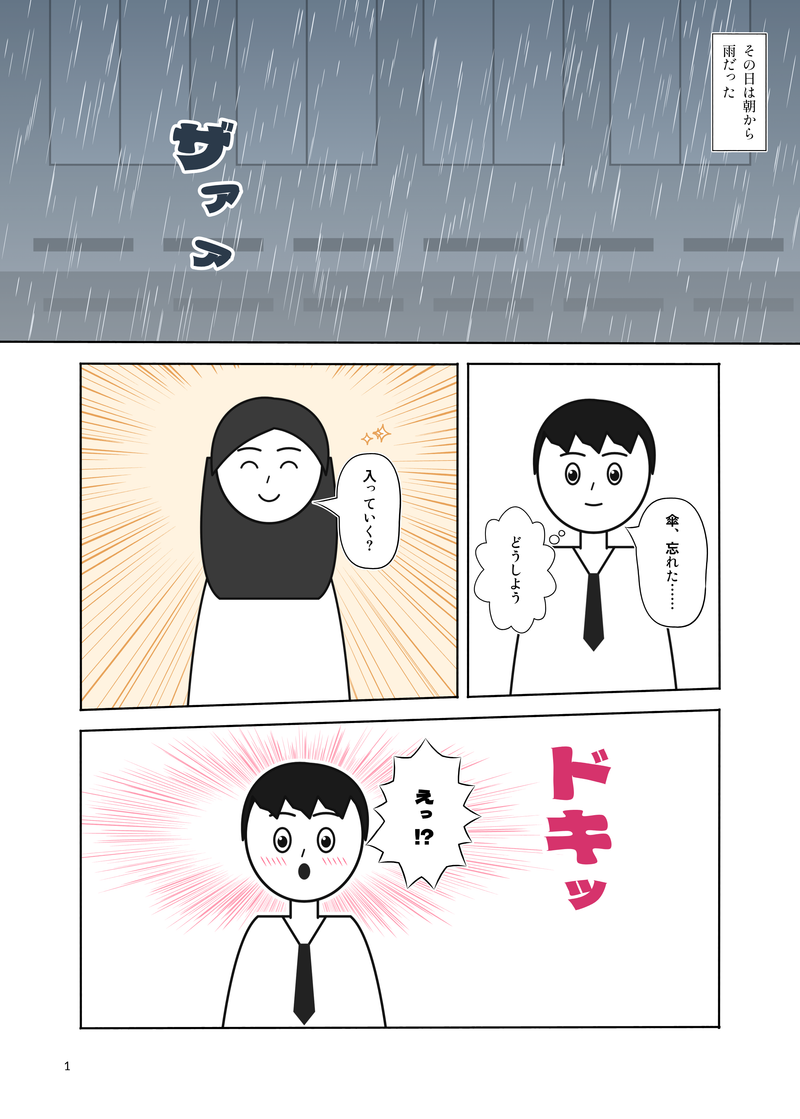
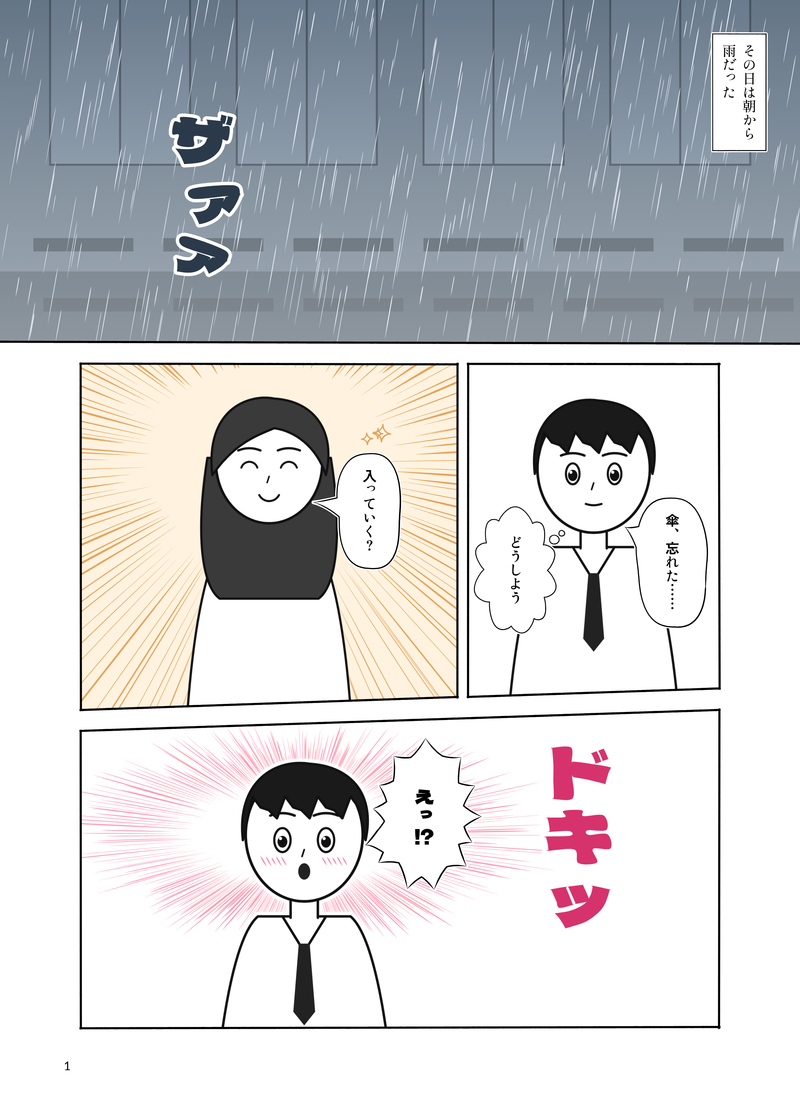
擬音の描き文字では小書きの仮名を縮めない

Changed region(s): [[0.2188, 0.0912, 0.3125, 0.2431], [0.6875, 0.79, 0.7812, 0.8508]]

diff --git a/src/text/layout.ts b/src/text/layout.ts
@@ -13,6 +13,8 @@ export interface TextStyle {
   writing: "vertical" | "horizontal";
   /** uppercase: all caps (western comic lettering) */
   textTransform?: "uppercase" | "none";
+  /** move/reduce small kana that a font sets centred and full size (off for SFX lettering) */
+  smallKanaFix?: boolean;
   lineHeight: number; // multiplier
   lineHeightAbs?: number; // mm
   letterSpacing: number; // em
@@ -528,7 +530,7 @@ function shapeSegment(seg: string[], segUnits: number[], pk: FontPick, size0: nu
     fitDashes(per, true);
     // fonts without vertical forms for small kana and 、。 get them moved toward the upper right
     // (judged from where the glyph's ink actually sits: some fonts map them to centred forms)
-    for (const b of per) {
+    for (const b of style.smallKanaFix === false ? [] : per) {
       const small = SMALL_KANA.has(b.chars);
       if ((!small && !VERT_PUNCT.has(b.chars)) || b.glyphs.length !== 1) continue;
       const g = b.glyphs[0];

diff --git a/src/elements/textel.ts b/src/elements/textel.ts
@@ -118,7 +118,7 @@ export function renderSfx(el: RElement, ctx: ElemCtx): { nodes: Node[]; bbox: Re
   const u = ctx.u;
   const style = resolveTextStyle({ ...p, wrap: "none", maxChars: undefined, punctCompress: "none", tcy: p.tcy ?? "none" }, u, ctx.lang, false, el.seed);
   const text = textValue(p.text, ctx.lang, ctx.defaultLang).replace(/\n/g, "");
-  const tl = layoutText(text, { ...style, lettering: null }, ctx.fonts);
+  const tl = layoutText(text, { ...style, lettering: null, smallKanaFix: false }, ctx.fonts);
   reportText(tl, el, ctx);
   const em = style.fontSize;
   const rng = new Rng(el.seed);
